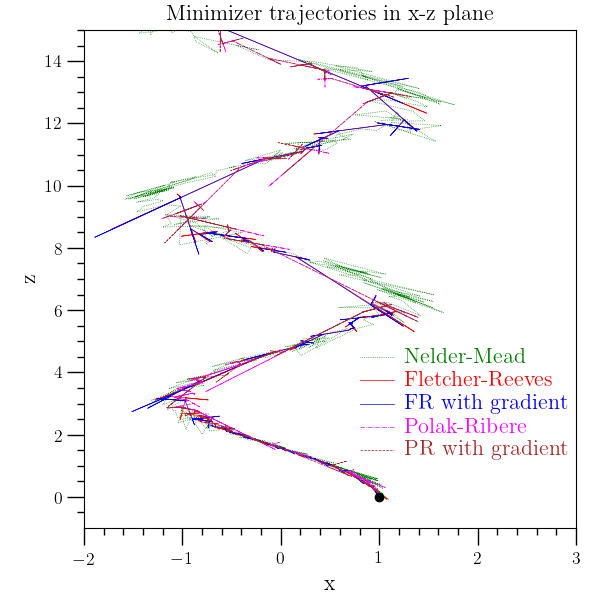
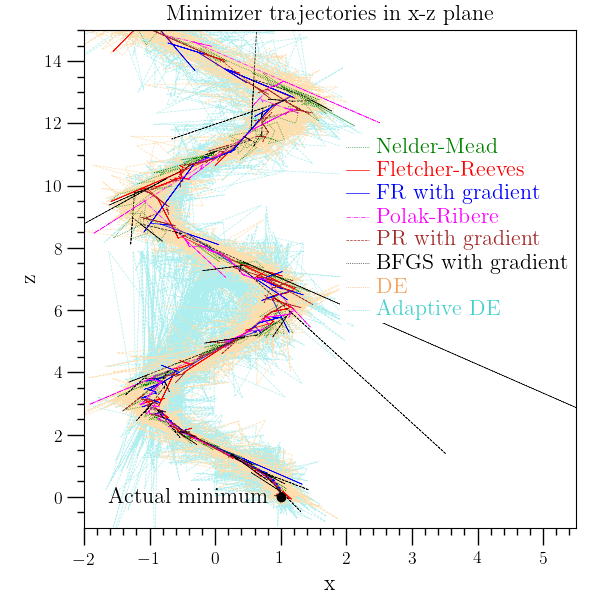
Work on mmin example and plot.

diff --git a/examples/ex_mmin.cpp b/examples/ex_mmin.cpp
@@ -37,6 +37,8 @@
 #include <o2scl/mmin_conf.h>
 #include <o2scl/mmin_conp.h>
 #include <o2scl/mmin_bfgs2.h>
+#include <o2scl/diff_evo.h>
+#include <o2scl/diff_evo_adapt.h>
 #include <o2scl/rng_gsl.h>
 
 using namespace std;
@@ -50,6 +52,7 @@ public:
 
   cl() {
     param=30.0;
+    rg.clock_seed();
   }
 
   // To output function evaluations to a file
@@ -58,6 +61,8 @@ public:
   // Parameter of the quadratic
   double param;
   
+  rng_gsl rg;
+
   // Updated spring function
   double spring_two(size_t nv, const ubvector &x) {
     double theta=atan2(x[1],x[0]);
@@ -99,6 +104,13 @@ public:
     return 0;
   }
   
+  int de_init_function(size_t dim, const ubvector &x, ubvector &y) {
+    y[0]=1.9+rg.random()*0.2;
+    y[1]=0.9+rg.random()*0.2;
+    y[2]=7.0*o2scl_const::pi-0.1+rg.random()*0.2;
+    return 0;
+  }
+  
 };
 
 int main(void) {
@@ -118,11 +130,18 @@ int main(void) {
     (std::mem_fn<int(size_t,ubvector &,ubvector &)>(&cl::sgrad),
      &acl,std::placeholders::_1,std::placeholders::_2,
      std::placeholders::_3);
+  mm_funct mfg=std::bind
+    (std::mem_fn<int(size_t,const ubvector &,ubvector &)>
+     (&cl::de_init_function),
+     &acl,std::placeholders::_1,std::placeholders::_2,
+     std::placeholders::_3);
 
   mmin_simp2<> gm1;
   mmin_conf<> gm2;
   mmin_conp<> gm3;
   mmin_bfgs2<> gm4;
+  diff_evo<> gm5;
+  diff_evo_adapt<> gm6;
 
   vector<double> guess={2.0,1.0,7.0*o2scl_const::pi};
   
@@ -165,9 +184,9 @@ int main(void) {
   cout << gm2.last_ntrial << endl;
   cout << "Found minimum at: " 
        << x[0] << " " << x[1] << " " << x[2] << endl;
-  t.test_rel(x[0],1.0,4.0e-3,"2a");
-  t.test_rel(x[1],0.0,4.0e-3,"2b");
-  t.test_rel(x[2],0.0,4.0e-3,"2c");
+  t.test_rel(x[0],1.0,4.0e-3,"2ga");
+  t.test_rel(x[1],0.0,4.0e-3,"2gb");
+  t.test_rel(x[2],0.0,4.0e-3,"2gc");
 
   // Polak-Ribere conjugate
   acl.fout.open("ex_mmin3.dat");
@@ -189,9 +208,56 @@ int main(void) {
   cout << gm3.last_ntrial << endl;
   cout << "Found minimum at: " 
        << x[0] << " " << x[1] << " " << x[2] << endl;
-  t.test_rel(x[0],1.0,4.0e-3,"3a");
-  t.test_rel(x[1],0.0,4.0e-3,"3b");
-  t.test_rel(x[2],0.0,4.0e-3,"3c");
+  t.test_rel(x[0],1.0,4.0e-3,"3ga");
+  t.test_rel(x[1],0.0,4.0e-3,"3gb");
+  t.test_rel(x[2],0.0,4.0e-3,"3gc");
+
+  // BFGS with gradients
+  acl.fout.open("ex_mmin4g.dat");
+  vector_copy(3,guess,x);
+  gm4.mmin_de(3,x,fmin,f1,f1g);
+  acl.fout.close();
+  cout << gm4.last_ntrial << endl;
+  cout << "Found minimum at: " 
+       << x[0] << " " << x[1] << " " << x[2] << endl;
+  t.test_rel(x[0],1.0,4.0e-3,"4ga");
+  t.test_rel(x[1],0.0,4.0e-3,"4gb");
+  t.test_rel(x[2],0.0,4.0e-3,"4gc");
+
+  // de
+  acl.fout.open("ex_mmin5.dat");
+  vector_copy(3,guess,x);
+  gm5.set_init_function(mfg);
+  gm5.mmin(3,x,fmin,f1);
+  acl.fout.close();
+  cout << "Found minimum at: " 
+       << x[0] << " " << x[1] << " " << x[2] << endl;
+  t.test_rel(x[0],1.0,4.0e-3,"5a");
+  t.test_rel(x[1],0.0,4.0e-3,"5b");
+  t.test_rel(x[2],0.0,4.0e-3,"5c");
+
+  // dea
+  acl.fout.open("ex_mmin6.dat");
+  vector_copy(3,guess,x);
+  gm6.set_init_function(mfg);
+  gm6.mmin(3,x,fmin,f1);
+  acl.fout.close();
+  cout << "Found minimum at: " 
+       << x[0] << " " << x[1] << " " << x[2] << endl;
+  t.test_rel(x[0],1.0,4.0e-3,"6a");
+  t.test_rel(x[1],0.0,4.0e-3,"6b");
+  t.test_rel(x[2],0.0,4.0e-3,"6c");
+
+  t.report();
+  return 0;
+}
+// End of example
+
+/*
+  This is the BFGS version with numerical gradients which doesn't
+  appear to work for this particular example. This may be a result of
+  finite precision in the object function rather than a failure of the
+  BFGS.
 
   gm4.def_grad.epsrel=1.0e-8;
   
@@ -206,19 +272,4 @@ int main(void) {
   t.test_rel(x[1],0.0,4.0e-3,"4b");
   t.test_rel(x[2],0.0,4.0e-3,"4c");
 
-  acl.fout.open("ex_mmin4g.dat");
-  vector_copy(3,guess,x);
-  gm4.mmin_de(3,x,fmin,f1,f1g);
-  acl.fout.close();
-  cout << gm4.last_ntrial << endl;
-  cout << "Found minimum at: " 
-       << x[0] << " " << x[1] << " " << x[2] << endl;
-  t.test_rel(x[0],1.0,4.0e-3,"4a");
-  t.test_rel(x[1],0.0,4.0e-3,"4b");
-  t.test_rel(x[2],0.0,4.0e-3,"4c");
-
-  t.report();
-  return 0;
-}
-// End of example
-
+*/
